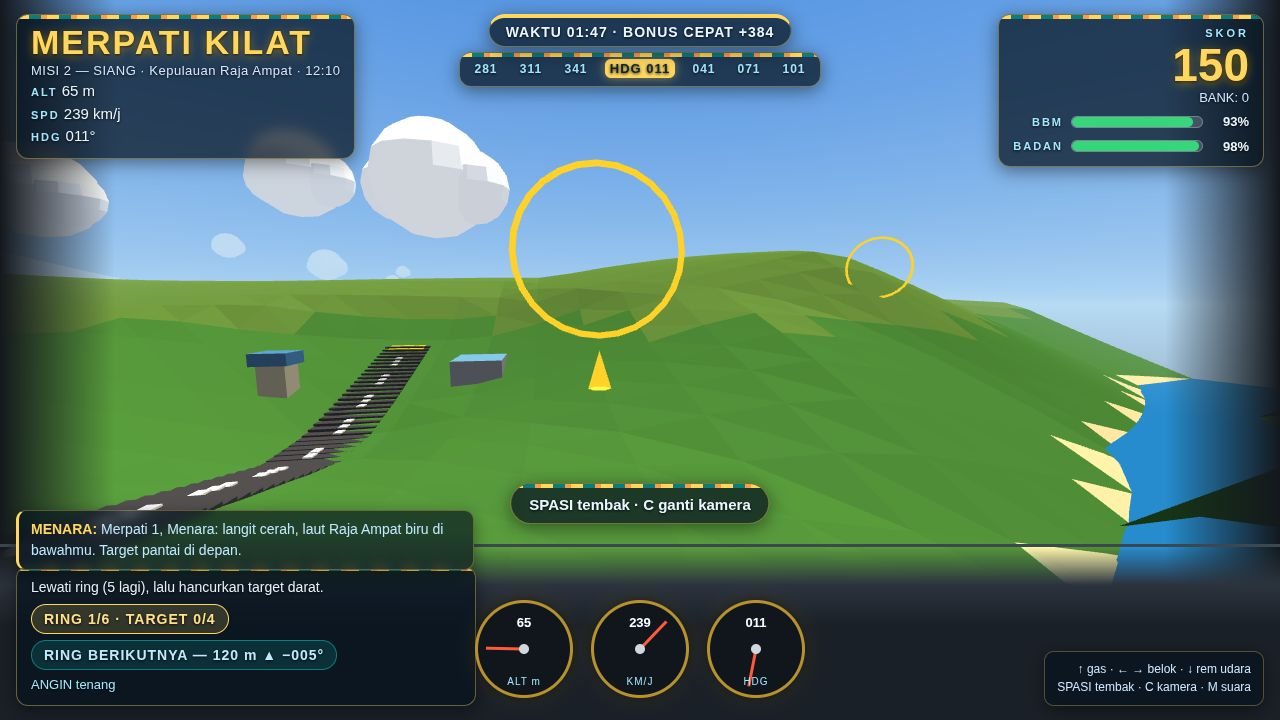
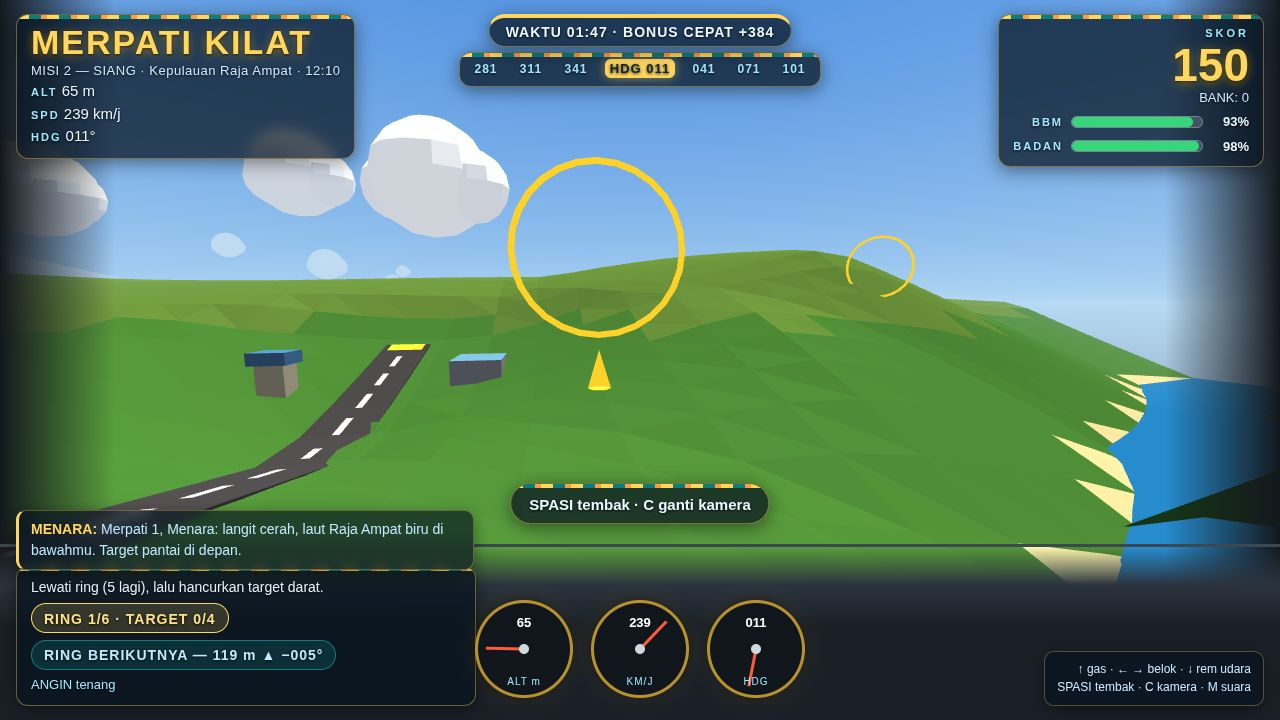
Revision round 2: smooth runway strip (Goldfish B1)

diff --git a/game/world.js b/game/world.js
@@ -187,26 +187,43 @@ export class RunwayStrip {
     this.width = 26;
     const b = new MeshBuilder();
     const cx = this.center[0], cz = this.center[2];
-    // Ronde 2 revisi (a), lanjutan: landasan MENGIKUTI terrain — strip
-    // datar y=6 TERKUBUR di bawah terrain pulau (10,5 m di tengah, 42,6 m
-    // di ujung utara, 31,6 m di ujung selatan — diukur via heightAt);
-    // dulu strip itu hanya terlihat karena terrain selatan tidak
-    // ter-render (Uint16 overflow) dan laut y=0,4 ada di bawah strip.
-    // Kini strip diiris per 5 m, tiap iris duduk 0,5 m di atas terrain
-    // setempat, supaya marka tetap di atas tanah tanpa melayang.
-    // Posisi/panjang/lebar/heading landasan TIDAK berubah.
+    // Ronde 2 revisi (b) — Goldfish B1: iris DATAR ronde 2a (top =
+    // heightAt(tengah)+0,5 per segmen 5 m) membentuk TANGGA — tiap slab
+    // datar beda ~1 m dari tetangganya, patahan/tonjolan antar-segmen
+    // terlihat di shot 2 + 4. Kini tiap segmen jadi BIDANG MIRING yang
+    // mengikuti heightAt di KEDUA ujung (top = groundYAt(z)+0,5 di z0
+    // dan z1): permukaan atas segmen yang berurutan berbagi rusuk yang
+    // sama persis, jadi strip jadi SATU permukaan miring kontinu tanpa
+    // ledge. Sisi samping mengikuti kemiringan yang sama dan dasarnya
+    // terkubur 0,7 m di bawah terrain. Posisi/panjang/lebar/heading
+    // landasan TIDAK berubah.
     const half = this.length / 2;
     const segLen = 5;
     const groundYAt = (z) => (terrain ? terrain.heightAt(cx, z) : 6);
+    const stripColor = [0.22, 0.22, 0.24];
+    const x0 = cx - this.width / 2, x1 = cx + this.width / 2;
     for (let z0 = cz - half; z0 < cz + half; z0 += segLen) {
       const z1 = Math.min(cz + half, z0 + segLen);
-      const zm = (z0 + z1) / 2;
-      const top = groundYAt(zm) + 0.5;
-      b.addBox(cx, top - 0.6, zm, this.width, 1.2, z1 - z0 + 0.3, [0.22, 0.22, 0.24]);
+      const yt0 = groundYAt(z0) + 0.5, yt1 = groundYAt(z1) + 0.5;
+      const yb0 = groundYAt(z0) - 0.7, yb1 = groundYAt(z1) - 0.7;
+      // Permukaan atas miring (winding sama seperti terrain: normal +Y).
+      b.addQuad([x0, yt0, z0], [x0, yt1, z1], [x1, yt1, z1], [x1, yt0, z0], stripColor);
+      // Sisi barat + timur miring, dasar terkubur di bawah terrain.
+      b.addQuad([x0, yb1, z1], [x0, yt1, z1], [x0, yt0, z0], [x0, yb0, z0], stripColor);
+      b.addQuad([x1, yb0, z0], [x1, yt0, z0], [x1, yt1, z1], [x1, yb1, z1], stripColor);
+      // Ujung utara/selatan hanya di segmen pertama/terakhir.
+      if (z0 === cz - half) {
+        b.addQuad([x0, yb0, z0], [x0, yt0, z0], [x1, yt0, z0], [x1, yb0, z0], stripColor);
+      }
+      if (z1 === cz + half) {
+        b.addQuad([x1, yb1, z1], [x1, yt1, z1], [x0, yt1, z1], [x0, yb1, z1], stripColor);
+      }
     }
-    // Garis tengah putih + marka ujung kuning — diiris per segmen yang
-    // sama supaya mengikuti undakan strip (marka datar 14 m di atas
-    // strip yang menanjak akan mengapung / terkubur di ujungnya).
+    // Garis tengah putih + marka ujung kuning — kini QUAD MIRING yang
+    // mengikuti permukaan strip di kedua ujung segmen (bukan box datar:
+    // box datar ikut membentuk tangga mini di atas strip). Quad tipis
+    // 0,15 m di atas strip, rusuk antar-segmen berbagi titik yang sama
+    // persis sehingga marka pun kontinu tanpa patahan.
     const inDash = (z) => {
       for (let k = -4; k <= 4; k++) {
         const mz = cz + k * 26;
@@ -219,12 +236,14 @@ export class RunwayStrip {
     for (let z0 = cz - half; z0 < cz + half; z0 += segLen) {
       const z1 = Math.min(cz + half, z0 + segLen);
       const zm = (z0 + z1) / 2;
-      const top = groundYAt(zm) + 0.5;
+      const mt0 = groundYAt(z0) + 0.65, mt1 = groundYAt(z1) + 0.65;
       if (inDash(zm)) {
-        b.addBox(cx, top + 0.2, zm, 3, 0.6, z1 - z0 + 0.3, [0.95, 0.95, 0.90]);
+        const dx0 = cx - 1.5, dx1 = cx + 1.5;
+        b.addQuad([dx0, mt0, z0], [dx0, mt1, z1], [dx1, mt1, z1], [dx1, mt0, z0], [0.95, 0.95, 0.90]);
       }
       if (inThreshold(zm)) {
-        b.addBox(cx, top + 0.2, zm, this.width - 6, 0.6, z1 - z0 + 0.3, [0.95, 0.80, 0.20]);
+        const tx0 = cx - (this.width - 6) / 2, tx1 = cx + (this.width - 6) / 2;
+        b.addQuad([tx0, mt0, z0], [tx0, mt1, z1], [tx1, mt1, z1], [tx1, mt0, z0], [0.95, 0.80, 0.20]);
       }
     }
     // Menara kecil + hanggar di sisi landasan. Ronde 4, blocker 3/6:
